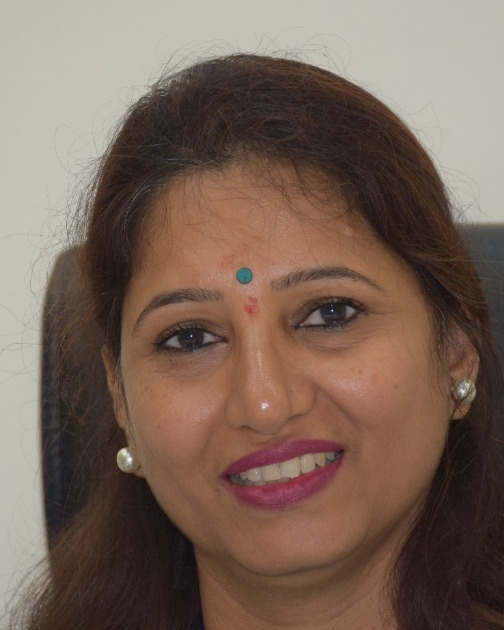
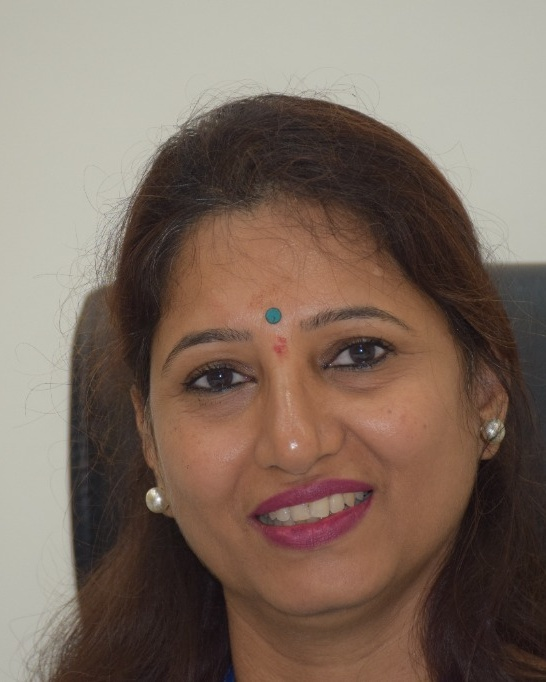
revert: restore website to 6:00 PM situation (commit b4ccc26)

diff --git a/index.html b/index.html
@@ -10,17 +10,12 @@
     <link rel="icon" type="image/svg+xml" href="assets/icons/favicon.svg">
     <link rel="apple-touch-icon" href="assets/icons/favicon.svg">
 
-    <!-- Canonical URL -->
-    <link rel="canonical" href="https://principal-portfolio-indol.vercel.app/">
-
     <!-- Open Graph / Social Meta -->
     <meta property="og:type" content="website">
-    <meta property="og:url" content="https://principal-portfolio-indol.vercel.app/">
     <meta property="og:title" content="Varsha Phukane | Principal & Educational Leader">
     <meta property="og:description" content="Official portfolio of Varsha Phukane — Principal, Educational Leader, and Mentor. Building schools where every learner is seen, challenged and inspired.">
     <meta property="og:image" content="assets/images/varsha_phukane_headshot.jpg">
     <meta name="twitter:card" content="summary_large_image">
-    <meta name="twitter:url" content="https://principal-portfolio-indol.vercel.app/">
     <meta name="twitter:title" content="Varsha Phukane | Principal & Educational Leader">
     <meta name="twitter:description" content="Official portfolio of Varsha Phukane — Principal, Educational Leader, and Mentor.">
     <meta name="twitter:image" content="assets/images/varsha_phukane_headshot.jpg">
@@ -79,8 +74,8 @@
         <div class="max-w-7xl mx-auto flex items-center justify-between gap-3 sm:gap-4">
             <!-- Brand / Name -->
             <a href="#hero" class="flex items-center gap-2.5 sm:gap-3 group text-decoration-none flex-shrink-0">
-                <div class="w-9 h-9 sm:w-10 sm:h-10 rounded-full border border-gold/50 flex items-center justify-center overflow-hidden flex-shrink-0 shadow-md">
-                    <img src="assets/images/varsha_phukane_avatar.jpg" alt="Varsha Phukane" class="w-full h-full object-cover">
+                <div class="w-9 h-9 sm:w-10 sm:h-10 rounded-full border border-gold/50 flex items-center justify-center bg-navy-card overflow-hidden flex-shrink-0 shadow-md">
+                    <img src="assets/images/varsha_phukane_headshot.jpg" alt="Varsha Phukane" class="w-full h-full object-cover object-[50%_35%]">
                 </div>
                 <div class="flex flex-col leading-tight">
                     <span class="font-serif font-bold text-sm sm:text-base tracking-wide text-white group-hover:text-gold transition-colors whitespace-nowrap">
@@ -185,7 +180,7 @@
 
             <!-- Right Executive Portrait Frame -->
             <div class="lg:col-span-5 flex justify-center lg:justify-end mt-4 lg:mt-0">
-                <div class="relative w-full max-w-[340px] sm:max-w-[420px] rounded-3xl p-3 sm:p-3.5 bg-gradient-to-b from-gold/40 via-slate-800/50 to-navy-card/90 gold-border-glow shadow-2xl flex flex-col">
+                <div class="relative w-full max-w-[320px] sm:max-w-[380px] rounded-3xl p-3 sm:p-3.5 bg-gradient-to-b from-gold/40 via-slate-800/50 to-navy-card/90 gold-border-glow shadow-2xl flex flex-col">
                     <!-- Photo Container with clean 4:5 aspect ratio -->
                     <div class="w-full aspect-[4/5] rounded-2xl overflow-hidden relative group shadow-lg bg-slate-900">
                         <img id="hero-portrait" 
@@ -195,17 +190,17 @@
                     </div>
                     
                     <!-- Clean Credentials Plaque (Beneath photo - NEVER covers chin/face) -->
-                    <div class="mt-3 p-3 sm:p-3.5 rounded-xl glass-card-dark border border-gold/30 flex items-center justify-between gap-2.5">
-                        <div class="flex items-center gap-2.5 sm:gap-3 min-w-0">
+                    <div class="mt-3 p-3.5 sm:p-4 rounded-xl glass-card-dark border border-gold/30 flex items-center justify-between">
+                        <div class="flex items-center gap-3">
                             <div class="w-9 h-9 sm:w-10 sm:h-10 rounded-lg bg-gold/20 flex items-center justify-center text-gold flex-shrink-0">
                                 <i data-lucide="graduation-cap" class="w-4 h-4 sm:w-5 sm:h-5"></i>
                             </div>
-                            <div class="min-w-0">
-                                <div class="text-[11px] sm:text-xs text-gold uppercase tracking-wider font-bold whitespace-nowrap">Varsha Phukane</div>
-                                <div class="text-[12px] sm:text-[13px] font-semibold text-white leading-tight whitespace-nowrap">Principal | Educational Leader</div>
+                            <div>
+                                <div class="text-xs text-gold uppercase tracking-wider font-bold">Varsha Phukane</div>
+                                <div class="text-xs sm:text-[13px] font-semibold text-white leading-tight">Principal | Educational Leader</div>
                             </div>
                         </div>
-                        <div class="hidden md:inline-flex items-center gap-1.5 px-2.5 py-1 rounded-full bg-amber-500/10 border border-gold/30 text-gold-light text-[10px] font-semibold tracking-wider uppercase flex-shrink-0">
+                        <div class="hidden sm:inline-flex items-center gap-1.5 px-2.5 py-1 rounded-full bg-amber-500/10 border border-gold/30 text-gold-light text-[10px] font-semibold tracking-wider uppercase">
                             <span class="w-1.5 h-1.5 rounded-full bg-gold animate-pulse"></span>
                             Leadership
                         </div>
@@ -226,7 +221,7 @@
     <!-- ----------------- 02. BEYOND THE TITLE ----------------- -->
     <section id="the-person" class="py-16 sm:py-24 px-4 sm:px-6 lg:px-14 bg-ivory text-slate-900 relative">
         <div class="max-w-7xl mx-auto">
-            <div class="text-center max-w-3xl mx-auto mb-10 sm:mb-14">
+            <div class="text-center max-w-3xl mx-auto mb-10 sm:mb-16">
                 <span class="section-tag section-tag-light">The Person</span>
                 <h2 class="text-2xl sm:text-4xl lg:text-5xl font-serif font-bold text-slate-900 mb-2">
                     Beyond the Principal’s Office
@@ -235,25 +230,23 @@
                     “A school leader is more than a designation.”
                 </p>
                 <div class="w-16 h-1 bg-gold mx-auto mb-5 sm:mb-6"></div>
-                <p id="person-lead-story" class="dropcap font-editorial text-lg sm:text-xl lg:text-2xl text-slate-800 leading-relaxed italic text-left sm:text-center max-w-3xl mx-auto">
+                <p id="person-lead-story" class="dropcap font-editorial text-lg sm:text-xl lg:text-2xl text-slate-700 leading-relaxed italic text-left sm:text-center">
                     <!-- Hydrated via profile-data.js -->
                 </p>
             </div>
 
             <!-- Content Grid: Photography + 4 Storytelling Cards -->
-            <div class="grid grid-cols-1 lg:grid-cols-12 gap-6 lg:gap-8 items-stretch max-w-7xl mx-auto">
+            <div class="grid grid-cols-1 lg:grid-cols-12 gap-8 lg:gap-10 items-center">
                 <!-- Photography alongside text -->
-                <div class="lg:col-span-5 flex justify-center w-full">
-                    <div class="relative rounded-2xl overflow-hidden shadow-2xl border-4 border-white bg-slate-100 w-full max-w-sm sm:max-w-md lg:max-w-[360px] flex flex-col h-full">
-                        <div class="relative w-full aspect-[4/5] max-h-[380px] sm:max-h-[440px] lg:aspect-auto lg:max-h-none lg:flex-1 overflow-hidden">
-                            <img id="person-candid-img" 
-                                 src="assets/images/varsha_phukane_candid.jpg" 
-                                 alt="Varsha Phukane — Principal" 
-                                 class="w-full h-full object-cover object-top block">
-                        </div>
-                        <div class="p-3.5 sm:p-4 bg-white/95 border-t border-slate-200 flex-shrink-0 text-center">
-                            <p id="person-candid-caption" class="text-xs sm:text-sm font-semibold tracking-wide text-slate-800">
-                                Varsha Phukane — Principal, Educational Leader & Mentor
+                <div class="lg:col-span-5 max-w-md mx-auto lg:max-w-none w-full">
+                    <div class="relative rounded-2xl overflow-hidden shadow-2xl border-4 border-white bg-slate-100">
+                        <img id="person-candid-img" 
+                             src="assets/images/varsha_phukane_candid.jpg" 
+                             alt="Varsha Phukane — Principal" 
+                             class="w-full aspect-[4/5] object-cover object-[50%_15%]">
+                        <div class="p-3.5 sm:p-4 bg-white/95 border-t border-slate-200">
+                            <p id="person-candid-caption" class="text-xs text-slate-600 font-medium italic text-center">
+                                Varsha Phukane — Principal & Educational Leader
                             </p>
                         </div>
                     </div>
@@ -450,11 +443,11 @@
         <div class="max-w-4xl mx-auto text-center relative z-10 space-y-6 sm:space-y-8">
             <span class="section-tag">Final Signature</span>
 
-            <div class="w-24 h-24 sm:w-28 sm:h-28 mx-auto rounded-full border-2 border-gold/70 shadow-2xl overflow-hidden ring-4 ring-gold/15">
+            <div class="w-24 h-24 sm:w-28 sm:h-28 mx-auto rounded-full p-1.5 border-2 border-gold/50 shadow-2xl overflow-hidden bg-navy-card">
                 <img id="signature-portrait" 
-                     src="assets/images/varsha_phukane_avatar.jpg" 
+                     src="assets/images/varsha_phukane_headshot.jpg" 
                      alt="Varsha Phukane" 
-                     class="w-full h-full object-cover">
+                     class="w-full h-full object-cover object-[50%_35%]">
             </div>
 
             <blockquote id="signature-quote" class="font-editorial text-2xl sm:text-4xl lg:text-5xl italic text-slate-100 font-medium leading-snug sm:leading-tight max-w-3xl mx-auto">

diff --git a/audit.js b/audit.js
@@ -77,7 +77,7 @@ check('All navigation links match existing section IDs in index.html', () => {
 });
 
 // 4. Meta and SEO Checks
-check('Page has title, meta description, favicon, and canonical URL declared', () => {
+check('Page has title, meta description, and favicon declared', () => {
     const html = fs.readFileSync(path.join(__dirname, 'index.html'), 'utf8');
     if (!/<title>[\s\S]*?Varsha Phukane[\s\S]*?<\/title>/i.test(html)) {
         throw new Error('Missing or incorrect <title> with Varsha Phukane');
@@ -87,18 +87,6 @@ check('Page has title, meta description, favicon, and canonical URL declared', (
     }
     if (!/rel="icon"/i.test(html)) {
         throw new Error('Missing favicon link');
-    }
-    if (!/<link\s+rel="canonical"\s+href="https:\/\/principal-portfolio-indol\.vercel\.app\/"/i.test(html)) {
-        throw new Error('Missing or incorrect canonical URL (must be https://principal-portfolio-indol.vercel.app/)');
-    }
-    if (!/<meta\s+property="og:url"\s+content="https:\/\/principal-portfolio-indol\.vercel\.app\/"/i.test(html)) {
-        throw new Error('Missing or incorrect og:url meta tag');
-    }
-    if (!/<section\s+id="hero"/i.test(html)) {
-        throw new Error('Missing #hero section anchor');
-    }
-    if (/utm_source=chatgpt\.com/i.test(html)) {
-        throw new Error('Found unwanted utm_source=chatgpt.com in index.html');
     }
 });
 

diff --git a/js/main.js b/js/main.js
@@ -148,11 +148,11 @@ function renderBeyondTitle() {
         container.innerHTML = person.cards.map(card => `
             <div class="glass-card-light p-6 sm:p-7 rounded-2xl border border-amber-900/10 hover:shadow-xl transition-all duration-300 group hover:-translate-y-1">
                 <div class="flex items-center gap-3 mb-3">
-                    <div class="w-10 h-10 rounded-xl bg-amber-100/80 flex items-center justify-center text-amber-900 group-hover:bg-amber-600 group-hover:text-white transition-colors flex-shrink-0 shadow-sm">
+                    <div class="w-10 h-10 rounded-xl bg-amber-100/80 flex items-center justify-center text-amber-900 group-hover:bg-amber-600 group-hover:text-white transition-colors">
                         <i data-lucide="${card.icon}" class="w-5 h-5"></i>
                     </div>
                     <div>
-                        <h4 class="text-lg sm:text-xl font-serif font-bold text-slate-900 tracking-wide">${card.role}</h4>
+                        <h4 class="text-lg font-bold font-serif tracking-wide text-slate-900">${card.role}</h4>
                         <span class="text-xs uppercase tracking-wider text-amber-800 font-semibold block">${card.subtitle}</span>
                     </div>
                 </div>

diff --git a/js/profile-data.js b/js/profile-data.js
@@ -454,7 +454,7 @@ When choosing a school, parents naturally check facilities and exam ranks. But t
         quote: "Education is not about filling minds. It is about opening possibilities.",
         name: "Varsha Phukane",
         title: "Principal | Educational Leader",
-        portrait: "assets/images/varsha_phukane_avatar.jpg",
+        portrait: "assets/images/varsha_phukane_headshot.jpg",
         email: "principal.varshaphukane@example.com",
         linkedin: "https://linkedin.com/in/varsha-phukane",
         schoolWebsite: "https://schoolwebsite.edu",
